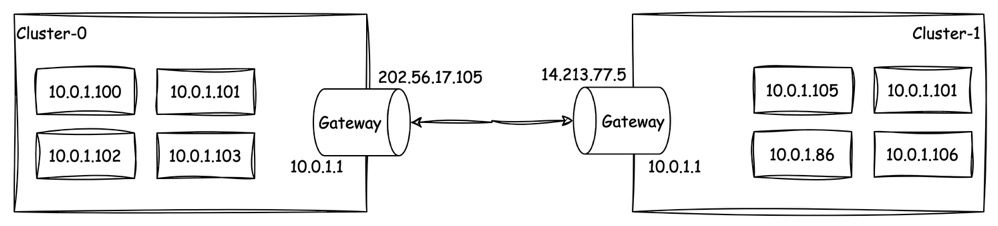
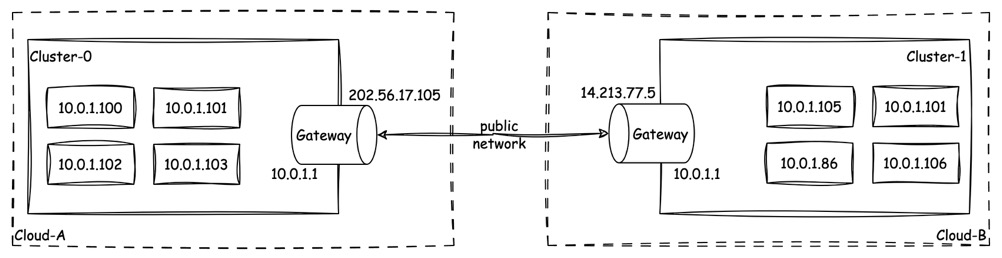
docs: update k8s mcs

diff --git a/source/_posts/k8s-multi-cluster.md b/source/_posts/k8s-multi-cluster.md
@@ -97,21 +97,34 @@ categories:
 
    {% asset_img network-gateway.jpg %}
 
-   如图所示，网关路由的形态很简单，首先通过在集群中安装网关来打通集群内外，之后任何涉及对其他集群的访问，网关都应当了解访问目的集群的地址（网关地址），并路由数据包至目的集群。
+   如图所示，网关路由的形态很简单，首先通过在集群中安装网关来打通集群内外，之后任何涉及对其他集群的访问，网关都应当了解访问目的集群的地址（网关地址），并路由数据包至目的集群。通过控制面设置合理的路由策略就可以满足细粒度的隔离场景。
 
-   网关路由的模型非常类似于 [istio 的多网络模型](https://istio.io/latest/docs/ops/deployment/deployment-models/#multiple-networks)，跨集群业务应用间的网络活动被网关转发代理实现通信，由于跨集群网络其 IP 地址可能存在冲突，因此需要通过合理的服务发现和治理机制确保服务名的唯一性。
+   网关路由的模型非常类似于 [Istio 的多网络模型](https://istio.io/latest/docs/ops/deployment/deployment-models/#multiple-networks)，跨集群业务应用间的网络活动被网关转发代理实现通信，由于跨集群网络其 IP 地址可能存在冲突，因此需要通过合理的服务发现和治理机制确保服务名的唯一性。另外，由于服务可能会被暴露在公网，安全性也是非常重要的一个考量点，Istio 的多网络模型中跨网通信要求必须通过 Istio Proxy 并建立 mTLS 连接。
 
 2. Overlay 网络
 
    {% asset_img network-overlay.jpg %}
 
-   我们知道很多 CNI 的工作模式就是在集群内构建了 Overlay 网络，因此如果能对单集群的 Overlay 网络进行扩展，使得多个集群之间共享同一个子网，也就实现了集群间整体的互联互通。
+   如图所示，多集群间的节点，虽然处于不同的云、不同的 VPC，但都被接入在同一个 Overlay 内，因此实现了直连。
 
-   
+   我们知道很多 CNI 实现的工作原理就是在集群内构建 Overlay 网络，如果能对单集群的 Overlay 网络进行扩展，使得多个集群之间共享同一个子网，也就实现了集群间整体的互联互通。通过创建不同的子网，即可满足不同的隔离度要求。
+
+   Overlay 网络的本质是隧道技术，通常是在三层网络上构建隧道从而传输二层网络包，来实现虚拟网络。Overlay 网络的优势在于它构建的虚拟扁平网络让上层通信不再依赖复杂的路由策略，但类似 VxLan 的技术，只对网络数据包进行了再封装，并没有任何安全性可言，因此当用于公网间建立隧道的时候会采用加密协议传输，如 IPSec，WireGuard 等。
 
 #### 服务发现与治理
 
+当实现了管理跨集群网络后，之后就需要考虑在应用层面的服务发现与治理问题。在单集群场景下，K8s 通过 DNS + Service 实现对应用地址的解析和应用访问的治理，因此在多集群场景，最简单直接的方式就是扩展现有的 DNS + Service 模式。
 
+考虑到不同集群内运行的应用是动态变化的，因此假设`cluster-0` 中的 `app-0` 创建了 `app-svc-0` ，该 Service 会被 `cluster-1` 中的应用 `app-1` 所依赖，那么多集群管理软件就应当及时的将 `cluter-0.app-svc-0` 的信息同步到`cluster-1` 从而让 `app-1` 能知道 `app-0` 的访问地址。
+
+[Multi-Cluster Services API](https://github.com/kubernetes/enhancements/blob/master/keps/sig-multicluster/1645-multi-cluster-services-api/README.md) 是 K8s “Multicluster SIG（多集群特别兴趣小组）” 发起的一项标准，它将单集群的 Service 概念扩展到多集群，以实现跨集群的服务发现治理，Multi-Cluster Services API 定义了 “集群组 ClusterSet” 的概念，并定义了如下的两种 CRD 来描述跨集群服务（以下假设集群组中存在两个集群 `cluster-0` 和 `cluster-1`）：
+
+- ServiceExport：若`cluster-0`中的 Service `svc-0` 期望被暴露给集群组，则在`cluster-0` 中创建一个与 `svc-0` 同名的 ServiceExport，这代表`svc-0`变成了一个 “集群组服务（Clusterset Service）”，在集群组内的所有集群中公开。
+- ServiceImport：多集群管理软件应当能发现上述创建的 ServiceExport，进而在集群组所有集群中创建 ServiceImport（包括`svc-0` 所在的`cluster-0`），这代表一个集群组服务被导入到当前集群。与此同时，多集群管理软件还应在 `cluster-1` 中创建名为 `svc-0` 的 Service 并绑定实际指向`clustrer-0.svc-0` 地址的 EndpointSlice。
+
+因此，`cluster-1` 中的应用能够直接通过访问 `cluster-1.svc-0` 来访问到 `cluster-0.svc-0` 实现了对外部集群服务的访问。
+
+上述方案通过 ServiceExport 和 ServiceImport 的概念，实现了对单集群 DNS + Service 的多集群扩展。
 
 ### 跨集群应用调度
 
@@ -216,7 +229,7 @@ spec:
 
 通过上述例子我们可以发现，集群生命周期的管理，在兼容不同的云时，存在如下难点：不同云提供商、以及各种私有云方案，其基础设施操作 API 都不同，并且除了 K8s 自管方案，公有云都存在代管方案，如 AKS，GKE 等，创建集群时需要区分。
 
-[ClusterAPI](https://github.com/kubernetes-sigs/cluster-api) 是 K8s “Cluster Lifecycle SIG（特别兴趣小组）” 发起的项目，Cluster API 尝试通过定义标准基础设施 API 来统一集群生命周期管理，各类云厂商自行提供实现了标准 API 的 “Provider” 来支持自动创建集群资源，由于其官方背景，目前已有[数十种 Provider](https://cluster-api.sigs.k8s.io/reference/providers.html) 可供选择（不仅包含 aws 等公有云，还包含了 OpenStack，OCI 等其他方案）。
+[ClusterAPI](https://github.com/kubernetes-sigs/cluster-api) 是 K8s “Cluster Lifecycle SIG（集群生命周期特别兴趣小组）” 发起的项目，Cluster API 尝试通过定义标准基础设施 API 来统一集群生命周期管理，各类云厂商自行提供实现了标准 API 的 “Provider” 来支持自动创建集群资源，由于其官方背景，目前已有[数十种 Provider](https://cluster-api.sigs.k8s.io/reference/providers.html) 可供选择（不仅包含 aws 等公有云，还包含了 OpenStack，OCI 等其他方案）。
 
 也许未来 Cluster API 可能会成为集群声明周期管理的标准。
 
